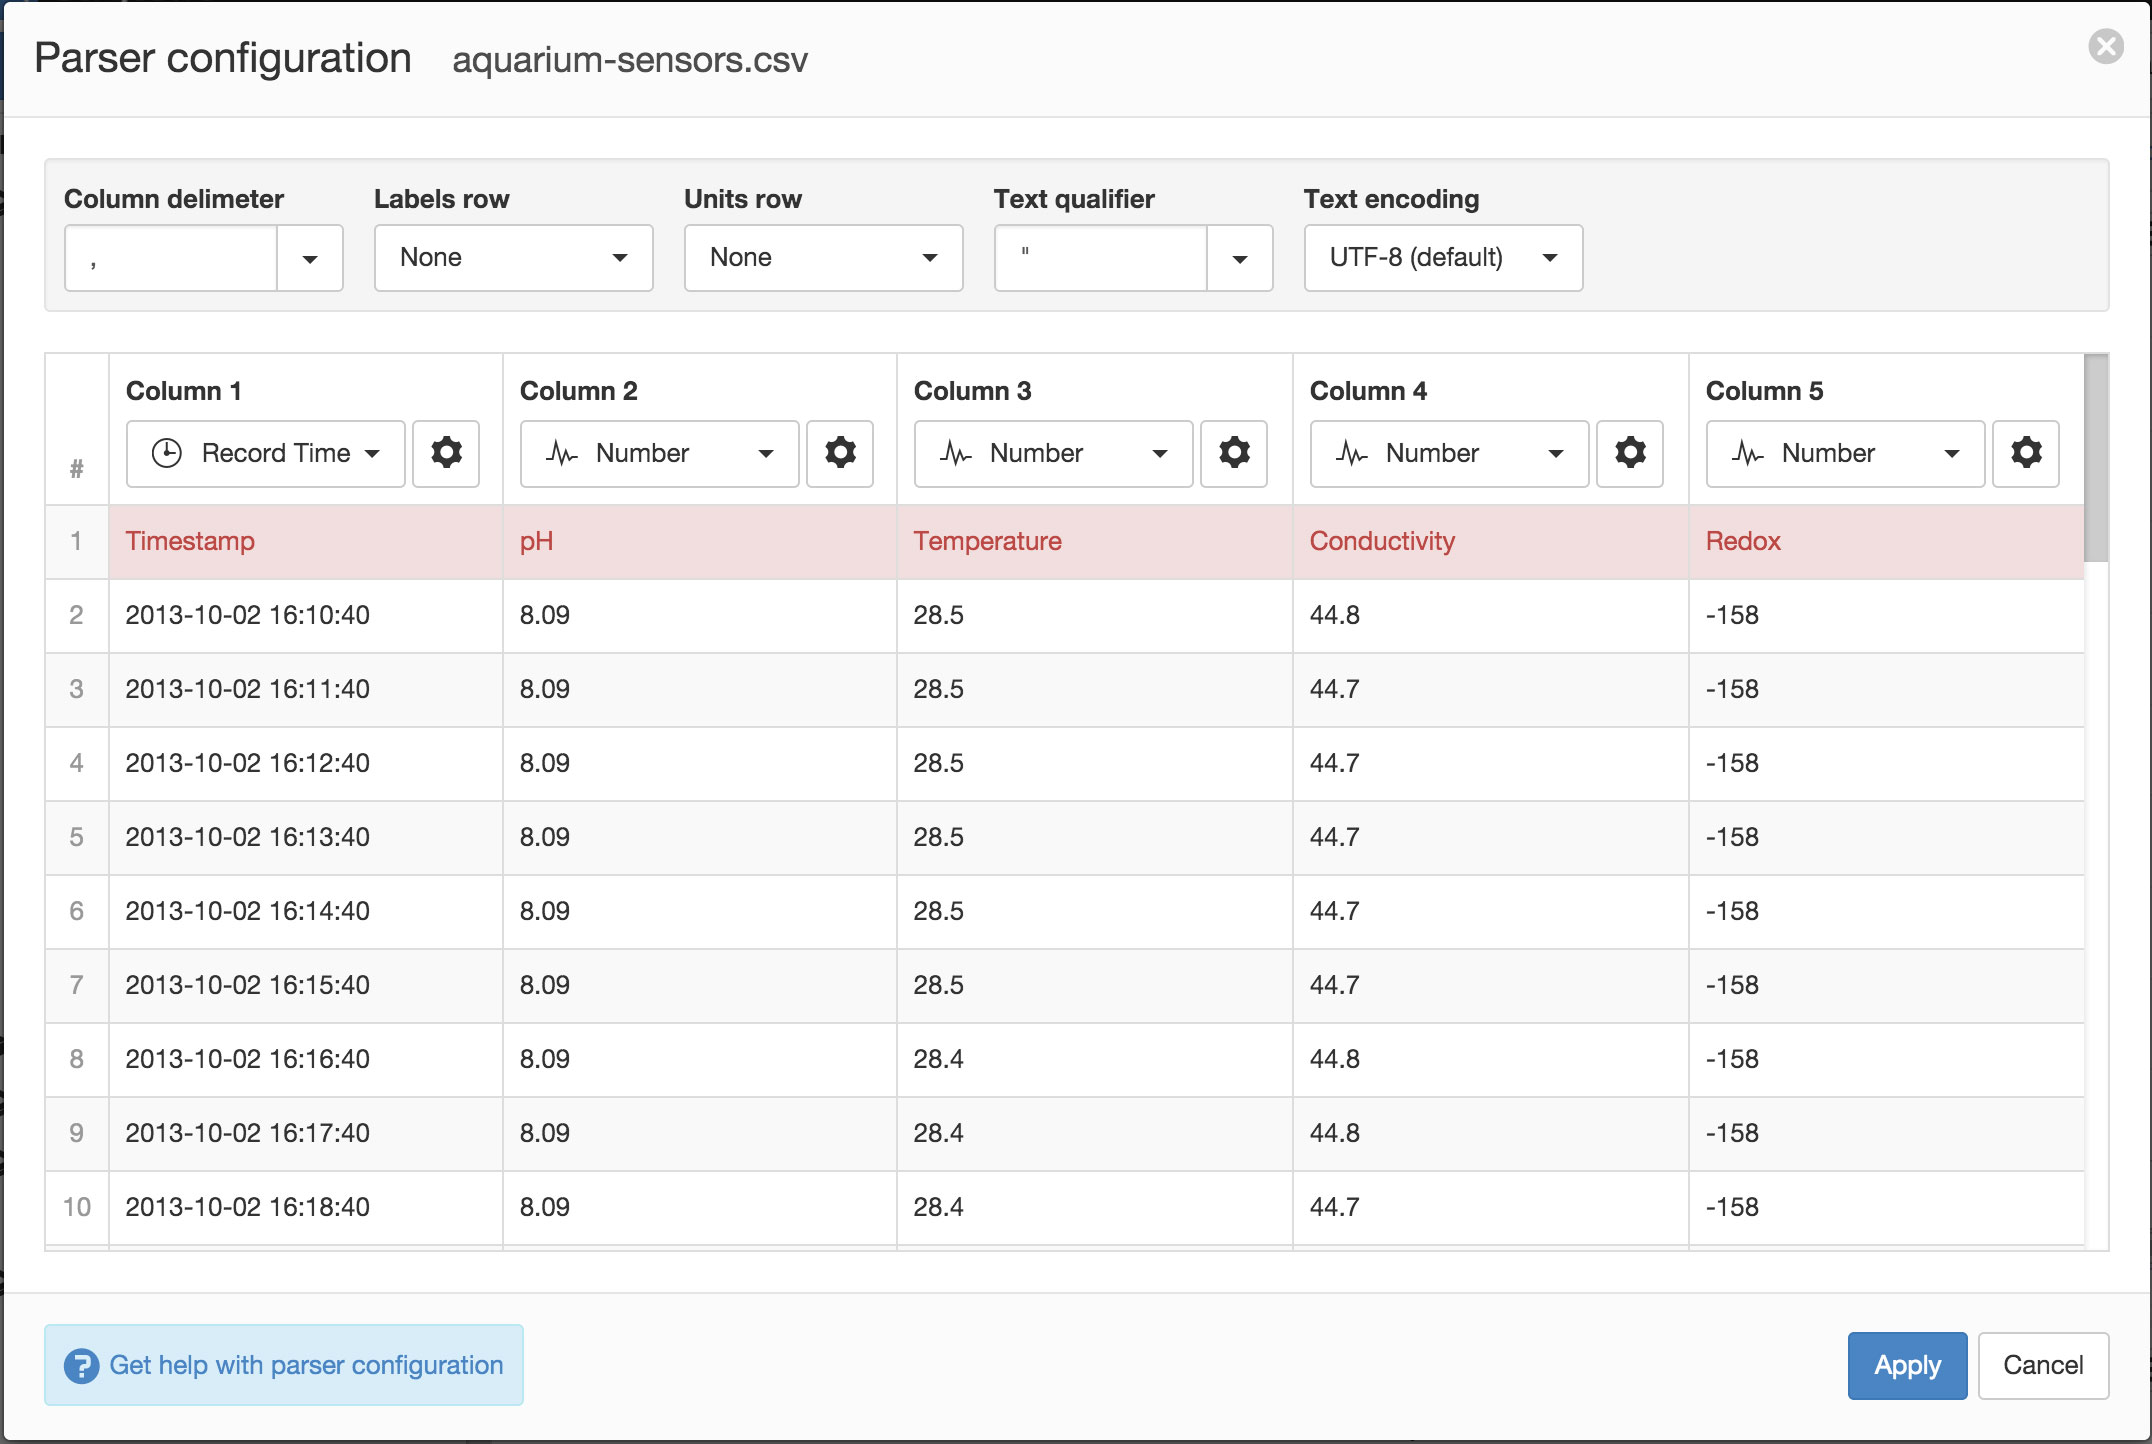
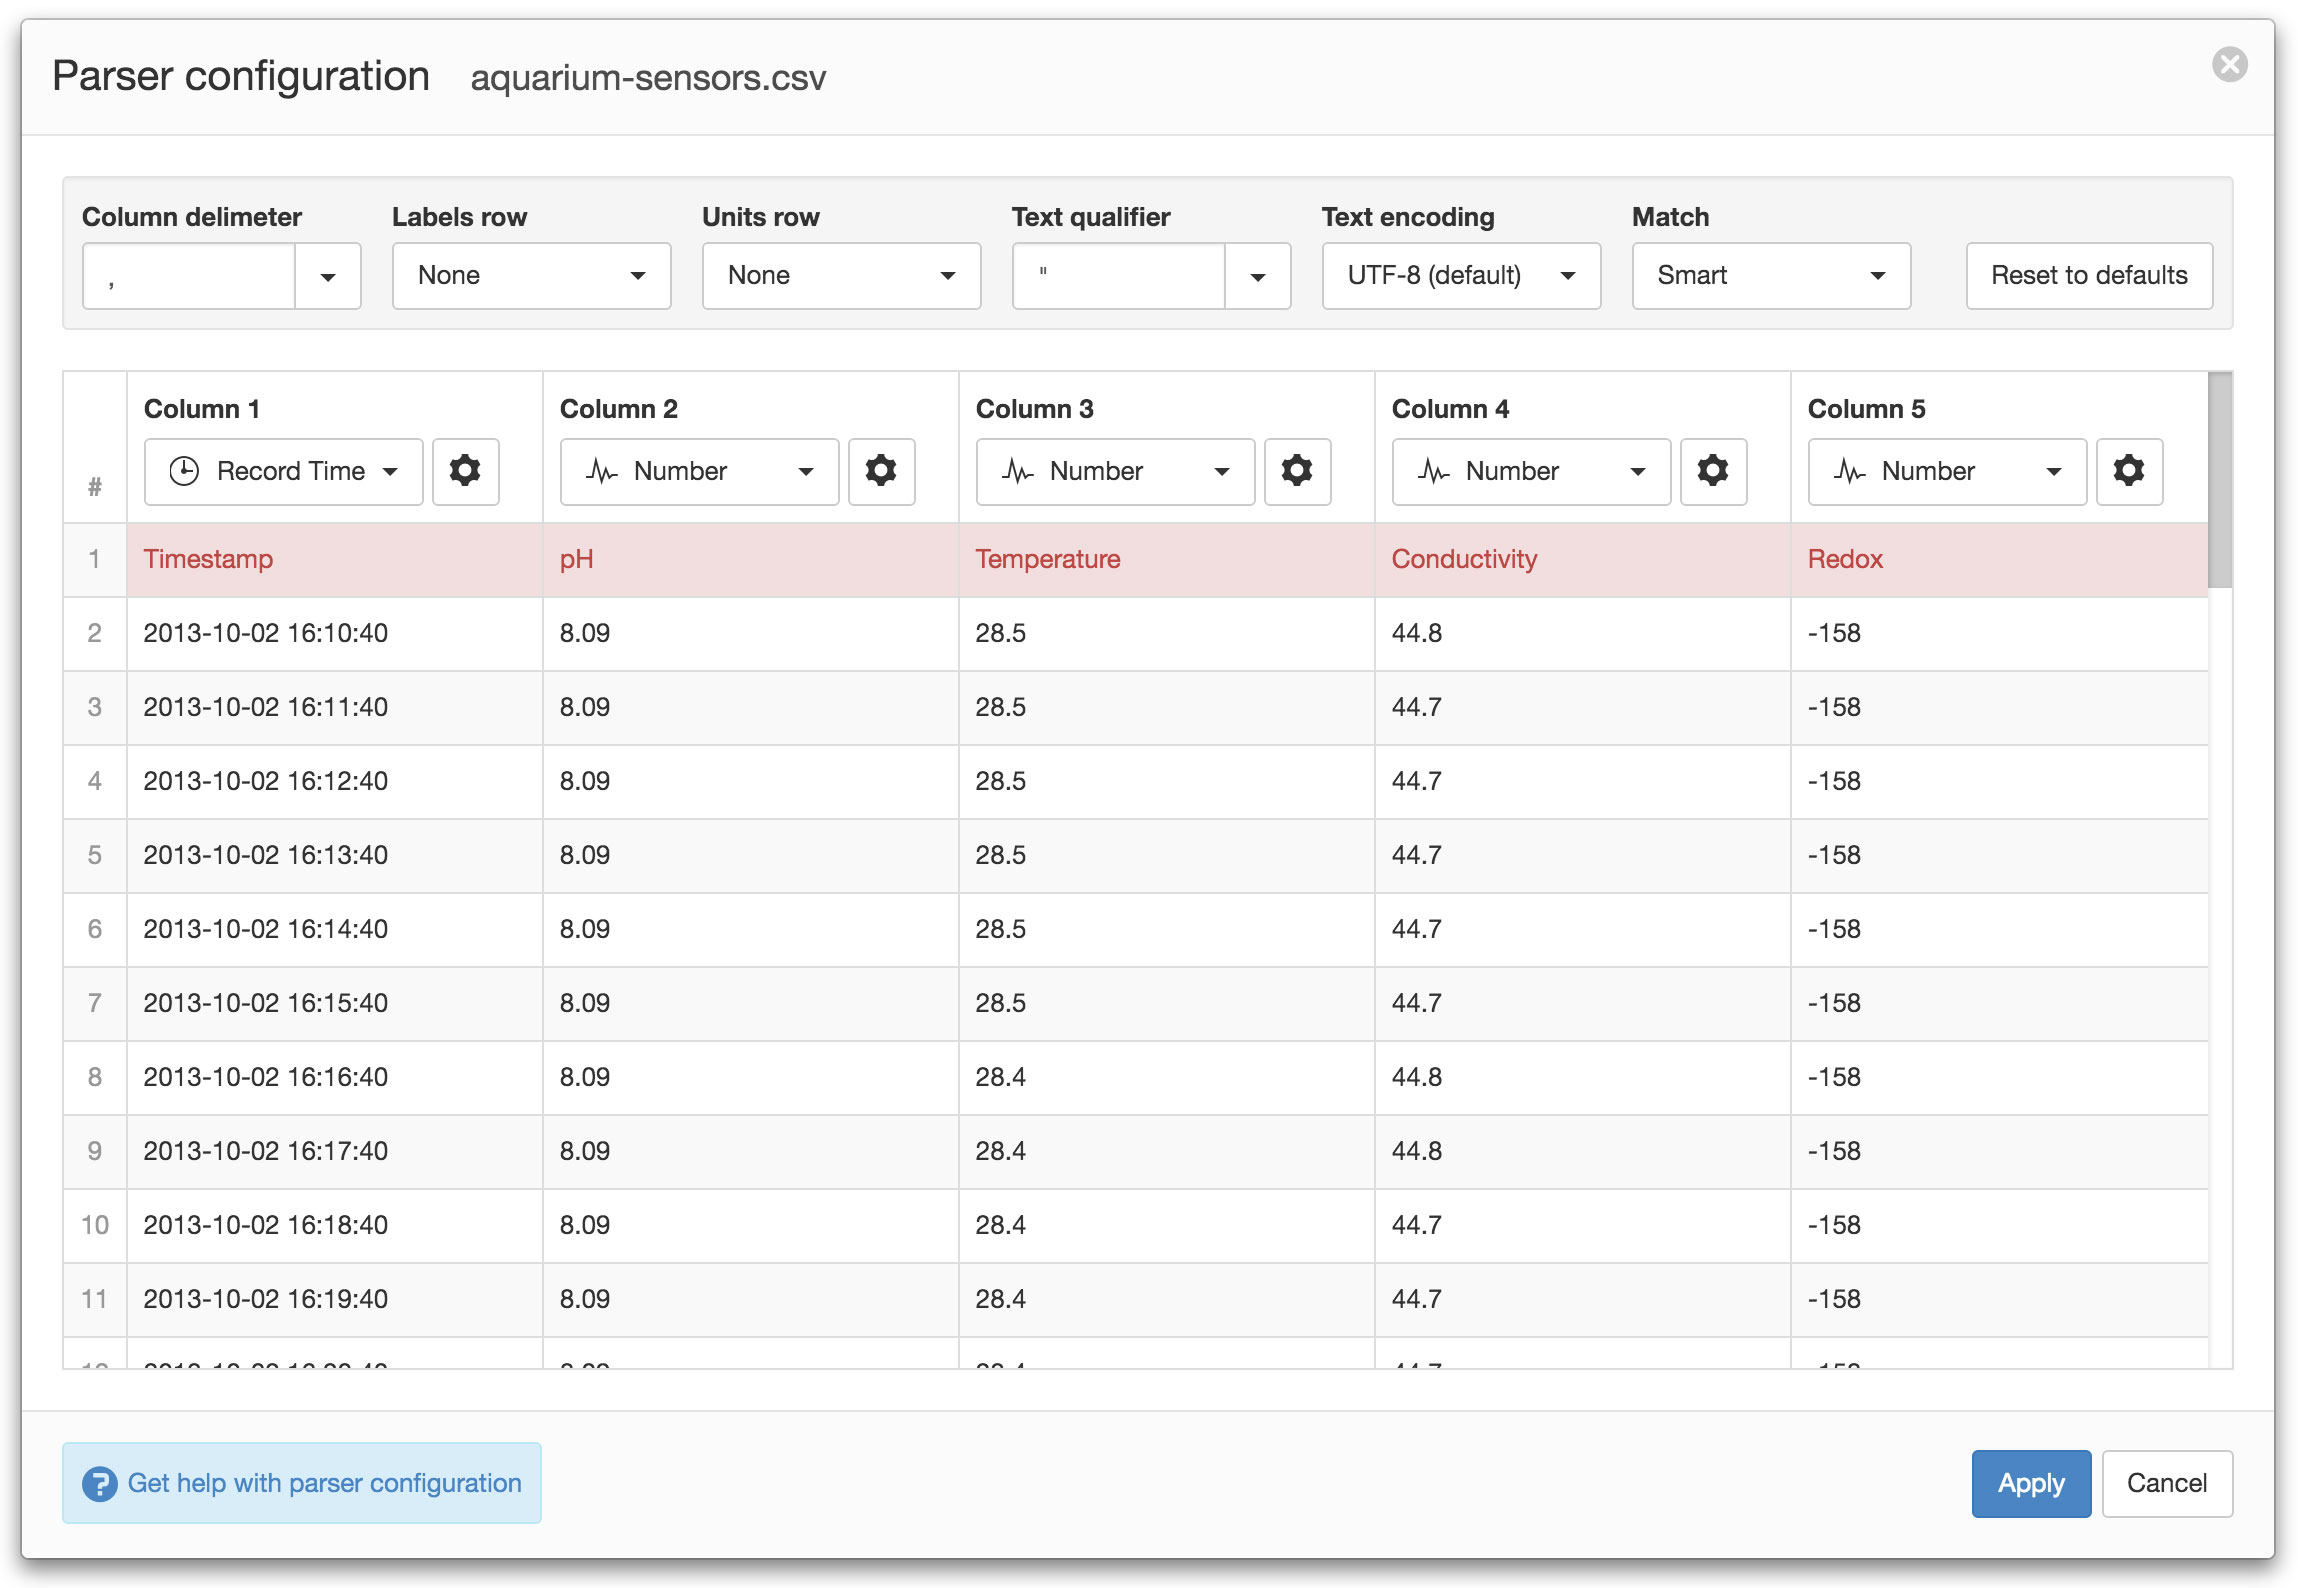
add parseMode to delimited text parser

Changed region(s): [[0.0, 0.0, 1.0, 1.0], [0.4047, 0.6233, 0.467, 0.8726]]

diff --git a/source/topics/nodes/datasource_file/index.rst b/source/topics/nodes/datasource_file/index.rst
@@ -392,6 +392,9 @@ Text qualifier
 Text encoding
 	The encoding format of the text file. If you notice special characters displayed incorrectly in the Parser Preview, you may need to change this setting.
 
+Match
+	*Smart* match will intelligently extract any values from the field that matches the column data type. *Strict* will only extract a value from the field if the entire field contents matches the column data type.
+
 Reset to defaults
 	Resets parser configuration and joins to system defaults.
 
